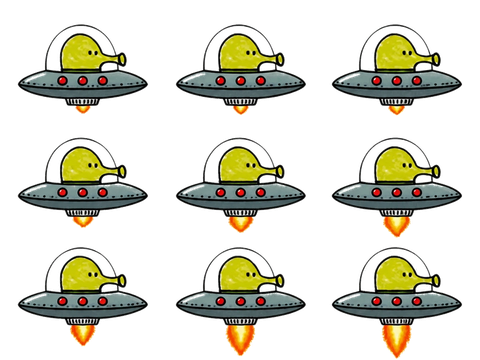
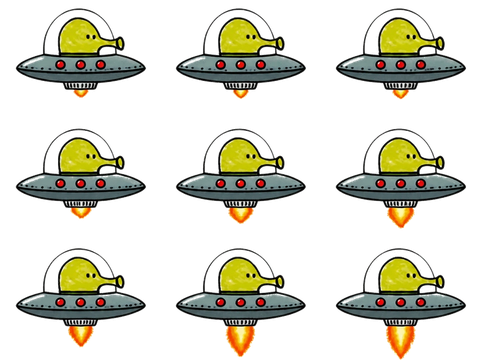
UFO polish: (1) realign all 9 flight frames to a common body position (they drifted up+left across the grid -> the up/down jerk); flame still varies = the animation. (2) bigger: pickup scale 0.42, flight 1.2. (3) rocket-style ending: at flight end thrusters cut, doodler pops out and keeps momentum, 

diff --git a/js/classic-theme.js b/js/classic-theme.js
@@ -157,8 +157,8 @@ Doodle.loadThemeAssets = function (game) {
     game.load.image("nose_default", "static/images/PlayerSheets/nose_default.png");
     game.load.image("menuOverlay", "static/images/menu_overlay.png");
     game.load.image("menuTitle", "static/images/menu_title.png");
-    game.load.spritesheet("ufofly_space", "static/images/Playerfull/space/ufo-doodler.png?v=186", 160, 120, 9); // doodler-in-UFO ride (space, 480x360 -> 160x120 x9). ?v busts stale image cache
-    game.load.image("ufopick_space", "static/images/Playerfull/space/ufo-power.png?v=187"); // empty saucer pickup (space). ?v busts stale image cache
+    game.load.spritesheet("ufofly_space", "static/images/Playerfull/space/ufo-doodler.png?v=188", 160, 120, 9); // doodler-in-UFO ride (space, 480x360 -> 160x120 x9). ?v busts stale image cache
+    game.load.image("ufopick_space", "static/images/Playerfull/space/ufo-power.png?v=188"); // empty saucer pickup (space). ?v busts stale image cache
     Doodle.THEMES.forEach(function (th) {
       if (th === "default") return;
       var d = Doodle.THEME_DATA[th];
@@ -456,7 +456,7 @@ Doodle.maybeUfo = function (gs, platform) {
     else { b = new Doodle.Bonus(gs.game, platform.x, platform.top + 5, "bonus2", platform, gs.score, gs.sounds, gs.stats); gs.bonusPool.add(b); }
     b.isUfo = true; b._ufoFly = flyKey; b._ufoPick = pickKey; // flight sheet (may be null) + pickup, for the ride/fallback
     b.loadTexture(pickKey);                                  // empty saucer sitting on the platform
-    b.anchor.setTo(0.5, 0.82); b.scale.setTo(0.28, 0.28);    // ~90px saucer, disc bottom resting on the platform (smaller)
+    b.anchor.setTo(0.5, 0.82); b.scale.setTo(0.42, 0.42);    // ~134px saucer, disc bottom resting on the platform
     if (b.body) { b.body.setSize(280, 210, 20, 40); b.body.allowGravity = false; } // grab box over the saucer (texture space; scales with the sprite)
     platform.hasBonusObject = 9;
     gs._ufoCount = (gs._ufoCount || 0) + 1;
@@ -472,12 +472,13 @@ Doodle.activateUfo = function (a, b, gs) {
     var g = a.game, face = (a.scale.x < 0 ? -1 : 1);
     var flyKey = b._ufoFly || ("ufofly_" + Doodle.getTheme()); // theme's flight sheet (captured at spawn)
     var pickKey = b._ufoPick || ("ufopick_" + Doodle.getTheme());
+    a._ufoPick = pickKey;                                    // for the empty-saucer drop at flight end
     b.kill();
     if (gs.sounds && gs.sounds.ufo) gs.sounds.ufo.play();
     if (Doodle._sheetOK(g, flyKey, 9)) {                     // animated doodler-in-UFO
       a.loadTexture(flyKey); a.frame = 0;
       a.anchor.setTo(0.5, 0.46);
-      a.scale.setTo(0.88 * face, 0.88);                      // 160px frame -> ~140px in flight (+30%)
+      a.scale.setTo(1.2 * face, 1.2);                        // 160px frame -> ~192px in flight (bigger)
       a.animations.add("uf", [0, 1, 2, 3, 4, 5, 6, 7, 8], 16, true); a.play("uf");
     } else if (Doodle._imgOK(g, pickKey)) {                  // flight sheet unavailable -> ride the empty saucer
       a.loadTexture(pickKey); a.frame = 0;
@@ -497,6 +498,7 @@ Doodle._ufoFlight = function (a, gs) {
     pt.add(330 * S, function () {
       try {
         var _vy = (a.body && a.body.velocity) ? a.body.velocity.y : -280;   // continue the upward speed -> no jerk at exit
+        var g = a.game, _ux = a.x, _uy = a.y;                // riding UFO position before the swap
         a.animations.stop(); a.withBonus = false; a.bonusType = null; a.isUfoRide = false;
         a.loadTexture(a._ufoPrevKey || Doodle.playerKey()); a.frame = 0;
         a.anchor.setTo(0.5, 0.5); a.scale.setTo(1, 1);       // back to the normal doodler (control re-flips facing)
@@ -505,7 +507,25 @@ Doodle._ufoFlight = function (a, gs) {
           a.body.reset(a.x, a.y);
           a.body.velocity.x = 0; a.body.velocity.y = _vy;
           a.body.gravity.y = -1520;                          // gentle decel -> drifts up a bit more, then falls onto platforms
-          a.game.time.events.add(780, function () { if (a.alive && a.body) a.body.gravity.y = 0; });
+          g.time.events.add(780, function () { if (a.alive && a.body) a.body.gravity.y = 0; });
+        }
+        // thrusters off -> the empty saucer drops away behind the doodler (same as the rocket shell)
+        var pk = a._ufoPick || ("ufopick_" + Doodle.getTheme());
+        if (Doodle._imgOK(g, pk)) {
+          var eu = g.add.sprite(_ux, _uy, pk);
+          eu.anchor.setTo(0.5, 0.5); eu.scale.setTo(0.6, 0.6);
+          try { a.parent.addChildAt(eu, a.parent.getChildIndex(a)); } catch (ez) {} // render behind the doodler
+          g.physics.arcade.enable(eu); eu.body.allowGravity = true;
+          eu.body.velocity.y = _vy; eu.body.velocity.x = 6;
+          eu.body.gravity.y = -1520; eu.body.angularVelocity = 24; // glides up a touch, tips over
+          eu.checkWorldBounds = true; eu.outOfBoundsKill = true;
+          g.time.events.add(780, function () {
+            if (eu && eu.alive && eu.body) {
+              eu.body.gravity.y = 1472; eu.body.angularVelocity = 60; // momentum spent -> drop + scroll with the world
+              gs._fallRockets = (gs._fallRockets || []).filter(function (r) { return r && r.alive; });
+              gs._fallRockets.push(eu);
+            }
+          });
         }
       } catch (e2) {}
     });

diff --git a/classic-offline.html b/classic-offline.html
@@ -24,8 +24,8 @@
     <script src="js/perf.js"></script>
     <script src="js/lib/phaser.min.js"></script>
     <!-- OFFLINE build: assets inlined as data-URIs so it runs straight from file:// (no server) -->
-    <script src="js/offline-assets.js?v=187"></script>
-    <script src="js/offline-shim.js?v=187"></script>
+    <script src="js/offline-assets.js?v=188"></script>
+    <script src="js/offline-shim.js?v=188"></script>
   </head>
   <body>
     <div id="gameParent"></div>
@@ -52,8 +52,8 @@
     </script>
     <input id="highscore" type="text" />
     <script src="js/fulltilt.min.js"></script>
-    <script src="js/classic-theme.js?v=187"></script>
-    <script src="js/classic.themed.js?v=187"></script>
-    <script src="js/doodle.js?v=187"></script>
+    <script src="js/classic-theme.js?v=188"></script>
+    <script src="js/classic.themed.js?v=188"></script>
+    <script src="js/doodle.js?v=188"></script>
   </body>
 </html>

diff --git a/index.html b/index.html
@@ -134,9 +134,9 @@
     <!-- Leaderboard API base, same-origin under /djapi (the server app is routed to djweb.../djapi). "" = local-only. -->
     <script>window.DJ_API_URL = "https://djapi.jeremiah.sg";</script>
     <script src="js/fulltilt.min.js"></script>
-    <script src="js/classic-theme.js?v=187"></script>
-    <script src="js/classic.themed.js?v=187"></script>
-    <script src="js/mp.js?v=187"></script>
-    <script src="js/doodle.js?v=187"></script>
+    <script src="js/classic-theme.js?v=188"></script>
+    <script src="js/classic.themed.js?v=188"></script>
+    <script src="js/mp.js?v=188"></script>
+    <script src="js/doodle.js?v=188"></script>
   </body>
 </html>

diff --git a/sw.js b/sw.js
@@ -1,7 +1,7 @@
 // Service worker: makes the online build an installable, offline-capable PWA.
 // NETWORK-FIRST for GET requests: when online you always get the latest (no stale-asset
 // problems after a deploy); falls back to cache only when offline. Bump CACHE on each release.
-var CACHE = "dj-v187";
+var CACHE = "dj-v188";
 
 self.addEventListener("install", function (e) { self.skipWaiting(); });
 